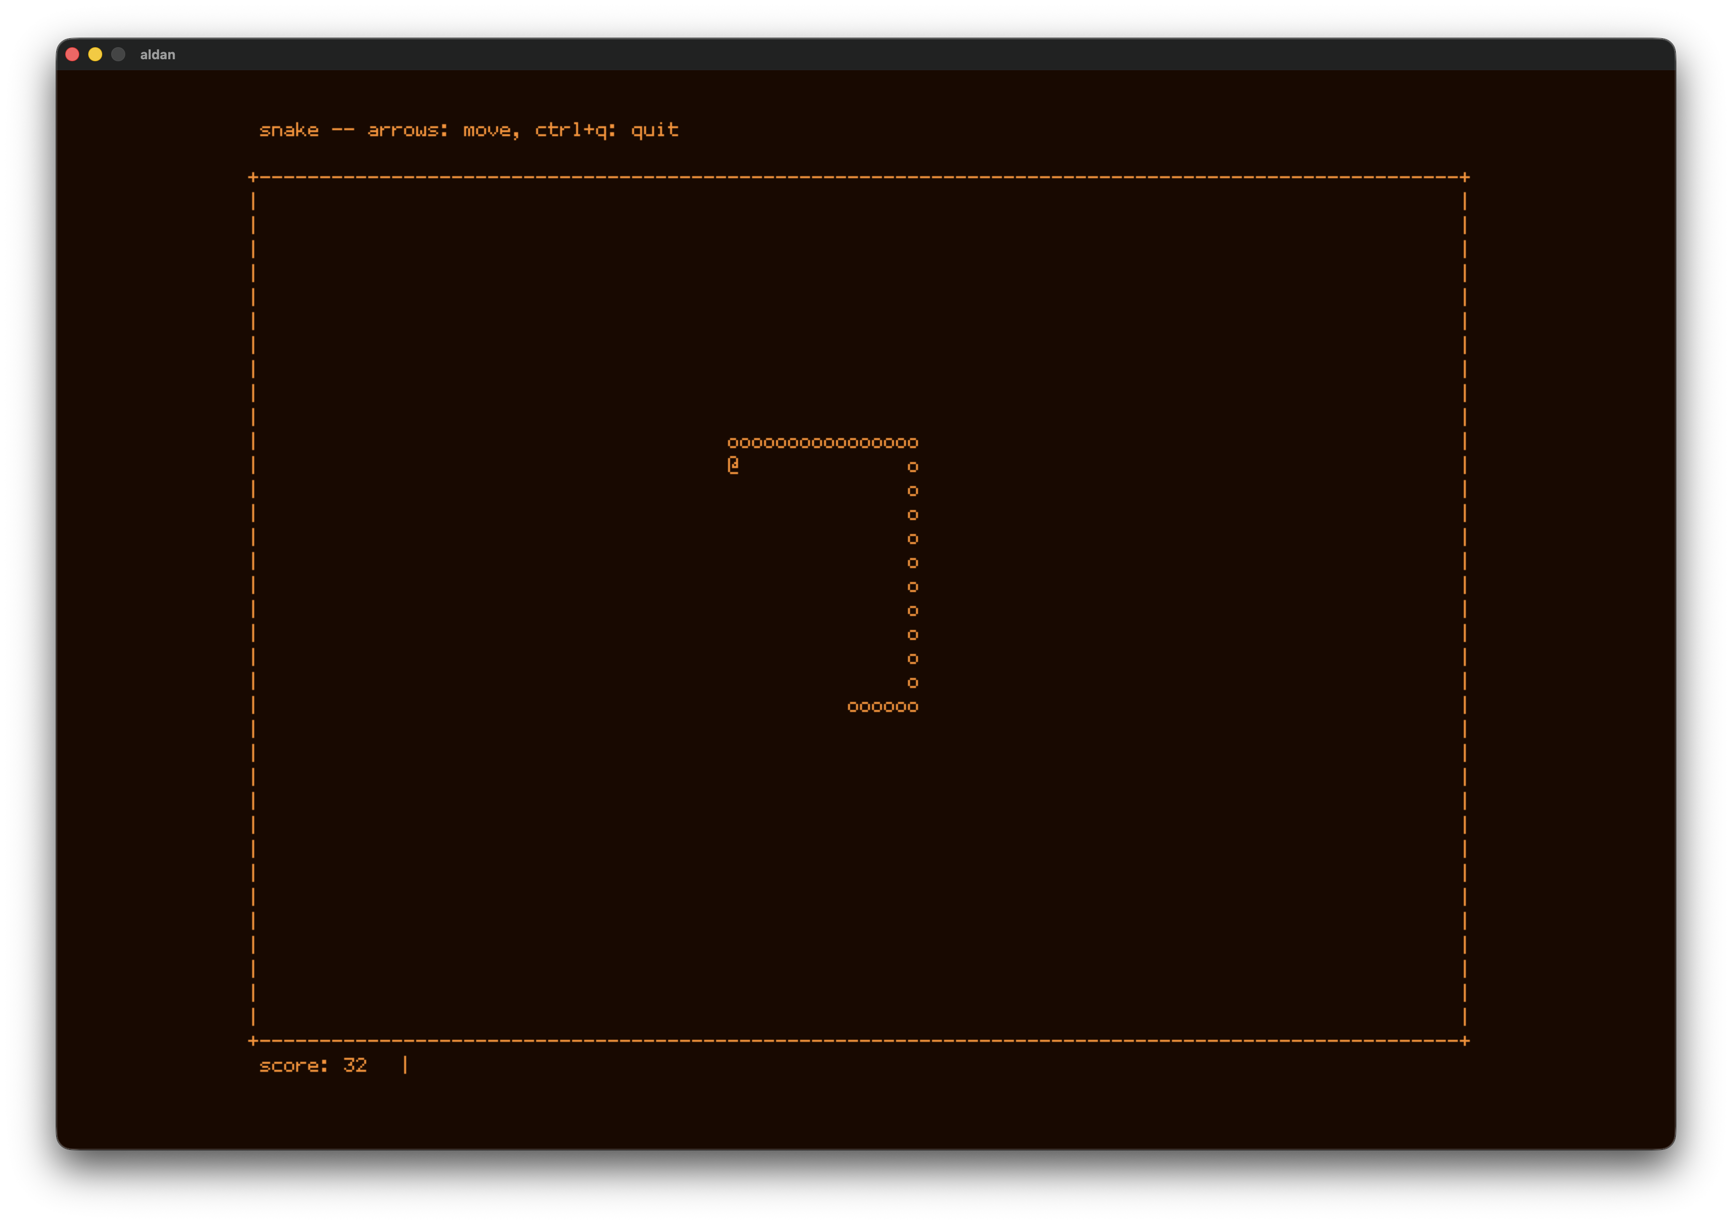
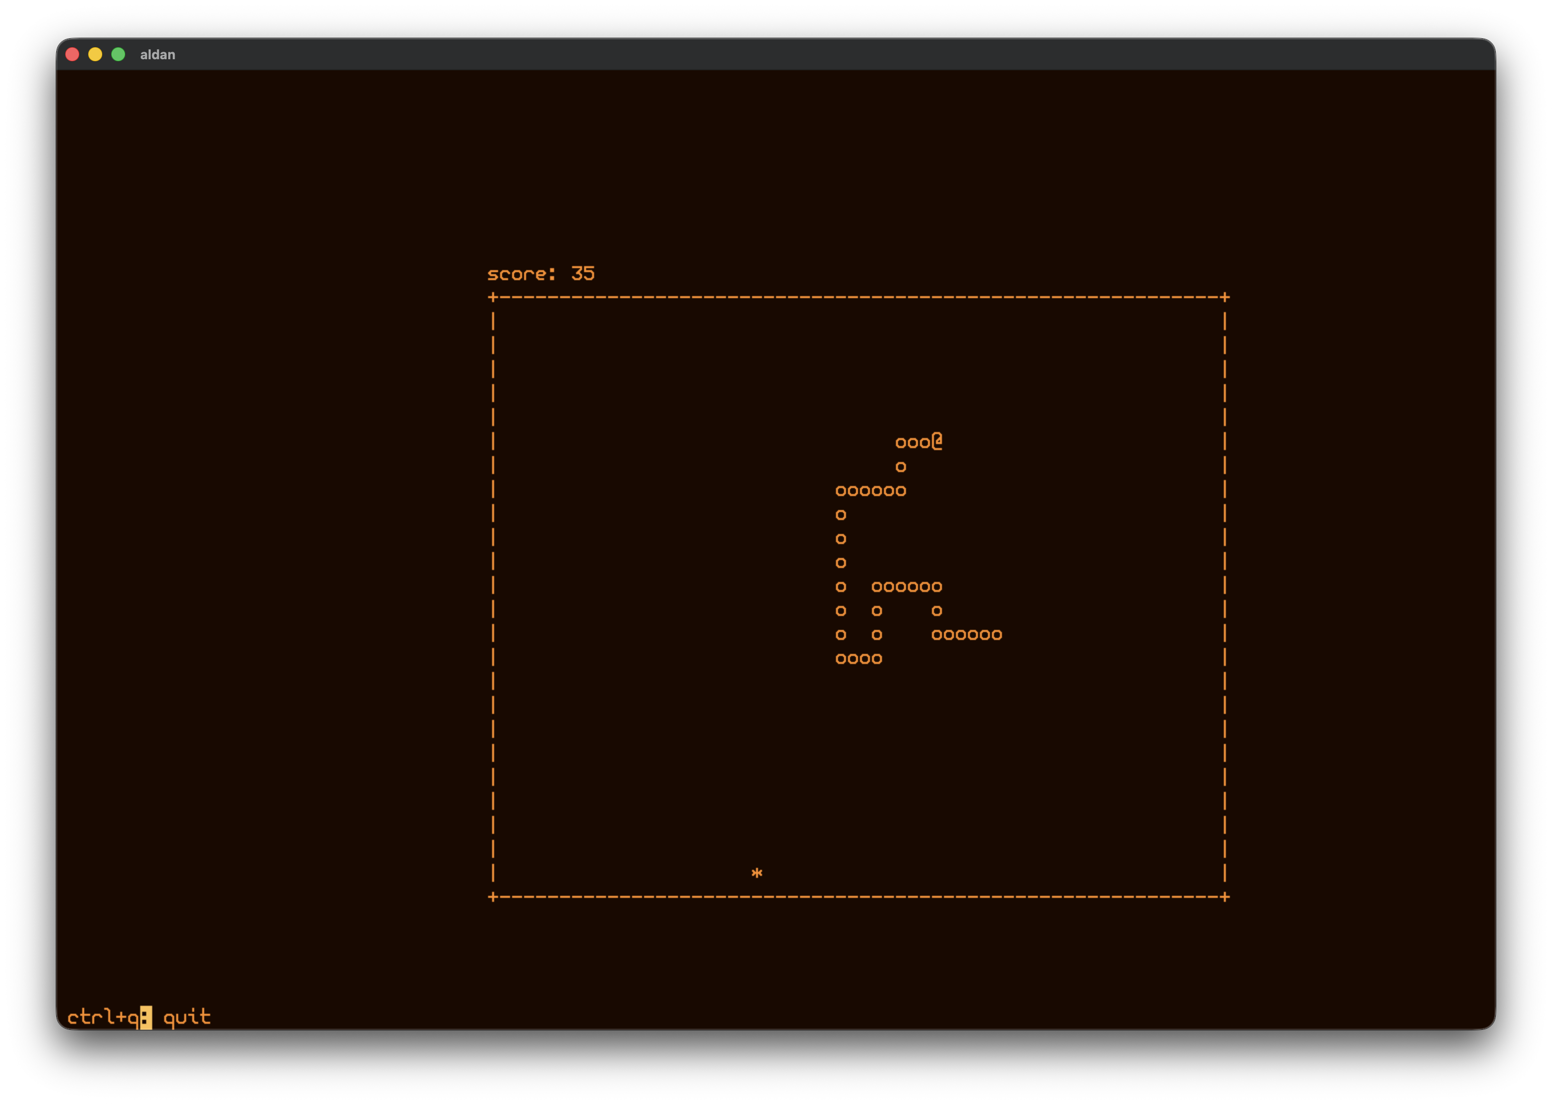
update screenshots

diff --git a/index.html b/index.html
@@ -8,7 +8,7 @@
 </head>
 <body>
 <h1>aldan 4</h1>
-<p><img src="assets/screenshots/screen--aldos_golife.gif" alt="aldos golife"></p>
+<p><img src="assets/screenshots/screen--aldos_galaxy.gif" alt="aldos galaxy"></p>
 <p>a fantasy computer.</p>
 
 <h2>theses</h2>
@@ -46,10 +46,14 @@
 </ul>
 
 <h2>screenshots</h2>
-<p><img src="assets/screenshots/screen--aldos_shell_session.png" alt="aldos shell session"></p>
-<p><img src="assets/screenshots/screen--aldos_snake_source.png" alt="aldos snake source"></p>
+<p><img src="assets/screenshots/screen--aldos_repl.png" alt="aldos repl"></p>
+<p><img src="assets/screenshots/screen--aldos_editor.png" alt="aldos editor"></p>
+<p><img src="assets/screenshots/screen--aldos_reader.png" alt="aldos reader"></p>
+<p><img src="assets/screenshots/screen--aldos_debugger.png" alt="aldos debugger"></p>
+<p><img src="assets/screenshots/screen--aldos_picture.png" alt="aldos picture"></p>
+<p><img src="assets/screenshots/screen--aldos_plot.png" alt="aldos plot"></p>
 <p><img src="assets/screenshots/screen--aldos_snake.png" alt="aldos snake"></p>
-<p><img src="assets/screenshots/screen--aldos_docs.png" alt="aldos docs"></p>
+<p><img src="assets/screenshots/screen--aldos_music.png" alt="aldos music"></p>
 
 <h2>bulletins</h2>
 <ul>

diff --git a/assets/style.css b/assets/style.css
@@ -16,6 +16,10 @@ pre, code, kbd, samp {
 a {
     color: #ff8c1a;
 }
+img {
+    max-width: 100%;
+    height: auto;
+}
 img.thumb {
     width: 120px;
     height: auto;
